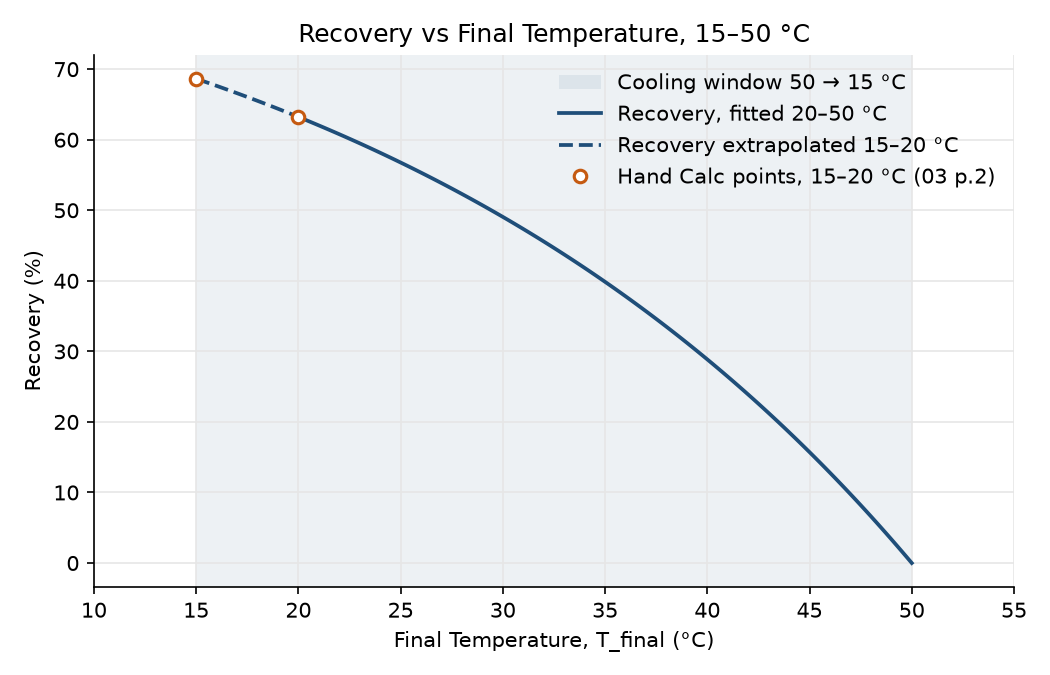
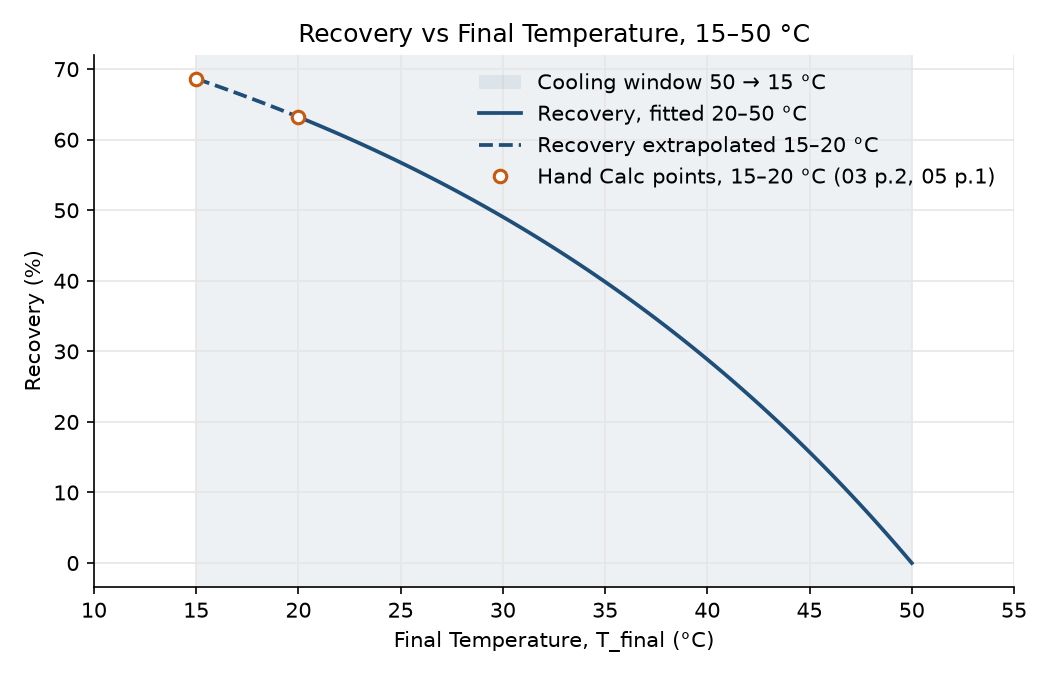
plot + BatchBasis: fix hand-calc citations and solubility swing

Changed region(s): [[0.4571, 0.0933, 0.9448, 0.28], [0.4571, 0.2489, 0.4876, 0.28]]

diff --git a/scripts/plot_yield.py b/scripts/plot_yield.py
@@ -17,8 +17,8 @@ from crystal_batch.balance import recovery #noqa: E402
 
 M_WATER = 350.0        # kg
 T_SAT = 323.15         # K, saturated at 50 °C
-HAND_T_C = [15, 20]    # °C, hand calc 03 p.2
-HAND_R = [68.6, 63.2]  # %
+HAND_T_C = [15, 20]    # °C, 15 °C from 03 p.2, 20 °C from 05 p.1
+HAND_R = [68.6, 63.2]  # %: 68.6 from 03 p.2 ; 63.2 = 7.6103 /12.036 from 05 p.1
 
 T_C = np.linspace(15, 50, 141)
 R = []
@@ -36,7 +36,7 @@ ax.plot(T_C[fitted], R[fitted], color="#1f4e79", lw=1.8,
 ax.plot(T_C[T_C <= 20], R[T_C <= 20], color="#1f4e79", lw=1.8, ls="--",
         label="Recovery extrapolated 15–20 °C")
 ax.plot(HAND_T_C, HAND_R, ls="none", marker="o", ms=6, mfc="white", mec="#c55a11", mew=1.5, clip_on=False,
-        label="Hand Calc points, 15–20 °C (03 p.2)")
+        label="Hand Calc points, 15–20 °C (03 p.2, 05 p.1)")
 
 ax.set_xlabel("Final Temperature, T_final (°C)")
 ax.set_ylabel("Recovery (%)")

diff --git a/docs/BatchBasis.md b/docs/BatchBasis.md
@@ -16,7 +16,7 @@ Utilising a pilot scale, drawing on Fujiwara’s lab scale of a 500ml flask, 350
 
 Recovery \= 69% meaning roughly 31% of paracetamol, 3.8 kg every batch goes out with the mother liquor 
 
-For this design, Water offers a small solubility swing (1-2 g/kg per 5℃ , against 20-30 g/kg for a solvent such as methanol ; Granberg 1999). 69% of the dissolved paracetamol is recovered and 3.8 kg per batch stays in the mother liquor. 
+For this design, water offers a small solubility swing of ~2 g/kg per 5°C  at the cold end, rising to ~5 g/kg per 5°C at 45-50°C (Fujiwara, 2002). Methanol, by comparison, swings 20-30 g/kg over the same step (Granberg 1999). 69% of the dissolved paracetamol is recovered and 3.8 kg per batch stays in the mother liquor. 
 
 To put it into perspective, utilising  Granberg’s cooling window of 30 → 0℃, Water holds a recovery of 59% whereas Methanol has a  recovery capacity of \~48%. However, the low absolute solubility of water produces 10 g per kg of water against Methanol’s 180 g/kg per kg of methanol. Thus, whilst water on paper has the greatest fractional recovery, it lacks productivity and its low effectiveness is demonstrated by outputting 18x less product per kg of solvent than methanol over the same window.
 
